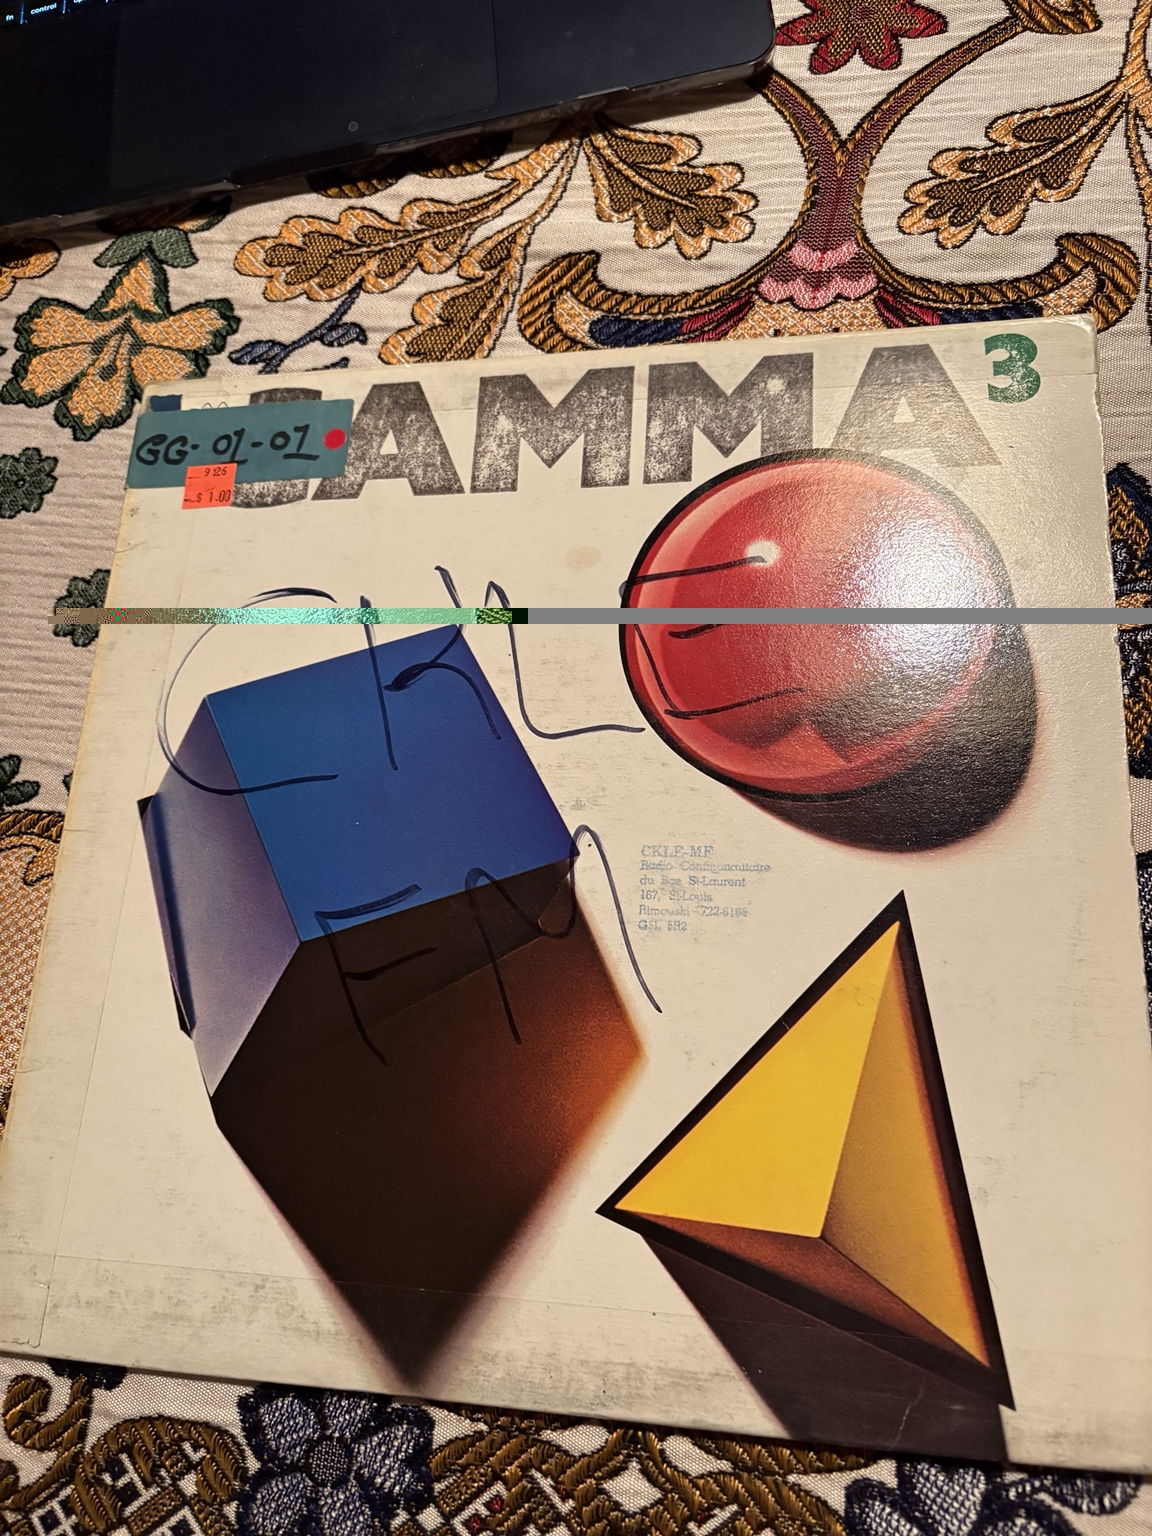
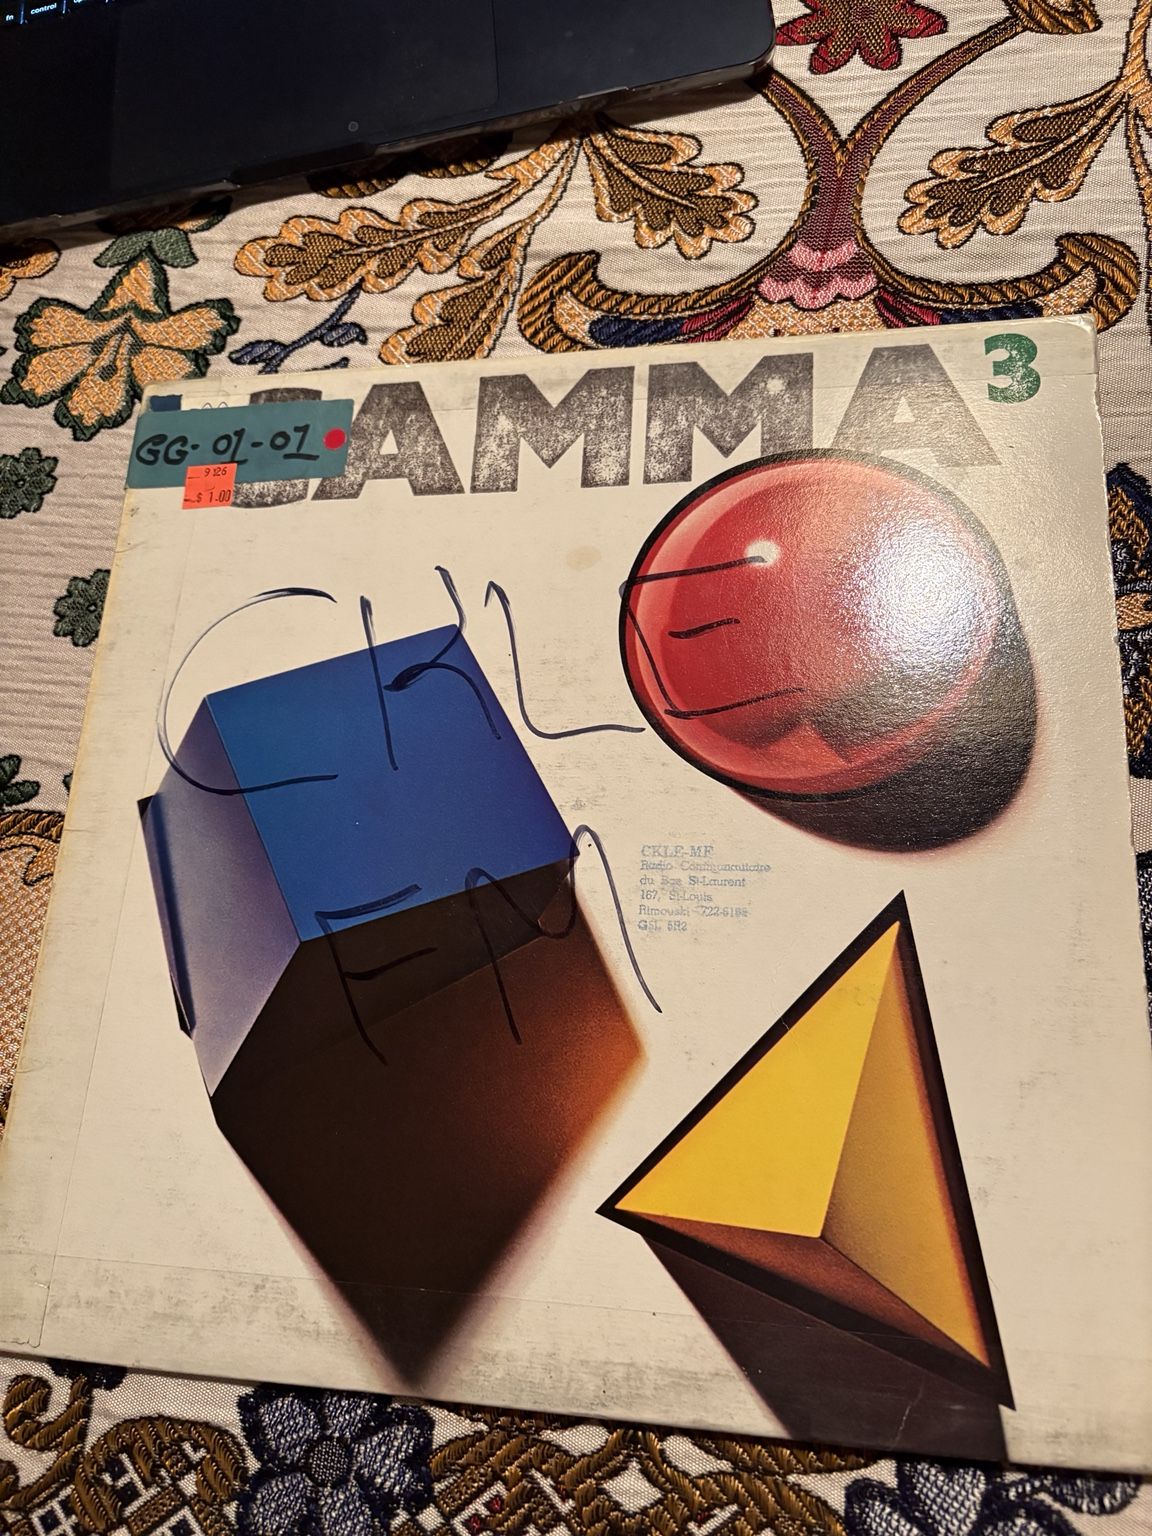
Réparer six transferts tronqués et vérifier intégralement les empreintes des 20 captures

Changed region(s): [[0.0312, 0.375, 1.0, 0.4062]]

diff --git a/scripts/importer_photos.py b/scripts/importer_photos.py
@@ -1,5 +1,6 @@
 """GitHub importe les lots d'images une seule fois, sans recréer les fiches supprimées."""
 import json
+import hashlib
 import os
 import urllib.error
 import urllib.parse
@@ -51,6 +52,8 @@ def main():
             photo = (ROOT / item['path']).resolve()
             if ROOT not in photo.parents or not photo.is_file():
                 raise ValueError('Image source absente ou chemin invalide')
+            if item.get('sha256') and hashlib.sha256(photo.read_bytes()).hexdigest() != item['sha256']:
+                raise ValueError('Photo source incomplète : empreinte incorrecte')
             bac, position = item['bac'], item['position']
             if not isinstance(position, int) or position < 1:
                 raise ValueError('Position invalide')
@@ -74,12 +77,18 @@ def main():
             if key in existing:
                 row = existing[key]
                 prior = row['fields'].get('Photos personnelles') or []
-                if any(a.get('filename') == photo.name for a in prior):
-                    continue
-                fields = {'Photos personnelles': [{'id': a['id']} for a in prior] + [attachment]}
                 source = row['fields'].get('Transcription source', '')
+                stamp = '[Photo complète sha256:' + item['sha256'] + ']' if item.get('refresh_attachment') and item.get('sha256') else None
+                if any(a.get('filename') == photo.name for a in prior) and (not stamp or stamp in source):
+                    continue
+                retained = [a for a in prior if not stamp or a.get('filename') != photo.name]
+                fields = {'Photos personnelles': [{'id': a['id']} for a in retained] + [attachment]}
                 if source_line not in source:
-                    fields['Transcription source'] = source + ('\n' if source else '') + source_line
+                    source += ('\n' if source else '') + source_line
+                if stamp and stamp not in source:
+                    source += '\n' + stamp
+                if source != row['fields'].get('Transcription source', ''):
+                    fields['Transcription source'] = source
                 pending_update.append({'id': row['id'], 'fields': fields})
                 continue
             fields = {'Clé': f'{bac}-{position:03}', 'Bac': bac, 'Ordre dans le bac': position,

diff --git a/scripts/test_importer_photos.py b/scripts/test_importer_photos.py
@@ -1,5 +1,6 @@
 """Verify resume, preservation and attachment repair without external writes."""
 import base64
+import hashlib
 import json
 import os
 import tempfile
@@ -44,13 +45,24 @@ def check():
                 {'AIRTABLE_TOKEN': 'test', 'GITHUB_TOKEN': 'test', 'GITHUB_REPOSITORY': 'owner/repo', 'GITHUB_SHA': 'source'}):
             imp.main()
             assert len(writes) == 1
+            # Replace a damaged copy once, retaining every unrelated attachment.
+            digest = hashlib.sha256(b'photo').hexdigest()
+            (root / 'inbox/two.json').write_text(json.dumps({'images': [
+                {'bac': 'B-10', 'position': 1, 'path': 'photos/one.jpeg',
+                 'refresh_attachment': True, 'sha256': digest}]}))
+            imp.main()
+            assert len(writes) == 2
+            assert len(row['fields']['Photos personnelles']) == 2
+            ledger.remove('inbox/two.json')
+            imp.main()
+            assert len(writes) == 2
             assert row['fields']['Statut'] == 'Identifié'
             assert row['fields']['Titre'] == 'Protected title'
             assert row['fields']['Transcription source'].startswith('Original dictation\n')
             # A retry after writes but before ledger persistence must not append duplicates.
             ledger = []
             imp.main()
-            assert len(writes) == 1
+            assert len(writes) == 2
             # A completed import does not recreate an intentionally removed row.
             row.clear()
             def retired(url, headers, data=None, method=None):
@@ -60,7 +72,7 @@ def check():
                 return {'records': []}
             with patch.object(imp, 'request_json', retired):
                 imp.main()
-        print('Attachment repair, original data, prior photos, interrupted retry and retired rows verified.')
+        print('Attachment repair, original data, prior photos, interrupted retry, source integrity and retired rows verified.')
 
 
 if __name__ == '__main__':

diff --git a/scripts/verifier_resultat_automatique.py b/scripts/verifier_resultat_automatique.py
@@ -1,6 +1,7 @@
 """Distinguer la réussite technique des fiches effectivement complétées."""
 import os
 import json
+import hashlib
 import urllib.parse
 from collections import defaultdict
 from pathlib import Path
@@ -37,6 +38,9 @@ def main():
     # Check each declared photograph against the actual Airtable attachment.
     for manifest in (Path(__file__).resolve().parents[1] / 'inbox').glob('**/*.json'):
         for item in json.loads(manifest.read_text())['images']:
+            photo = Path(__file__).resolve().parents[1] / item['path']
+            if item.get('sha256') and hashlib.sha256(photo.read_bytes()).hexdigest() != item['sha256']:
+                raise ValueError(f'Image source tronquée : {item["path"]}')
             key = (item['bac'], item['position'])
             if key not in rows:
                 print(f'::warning::Position absente de la base : {key}; aucune recréation automatique.')
